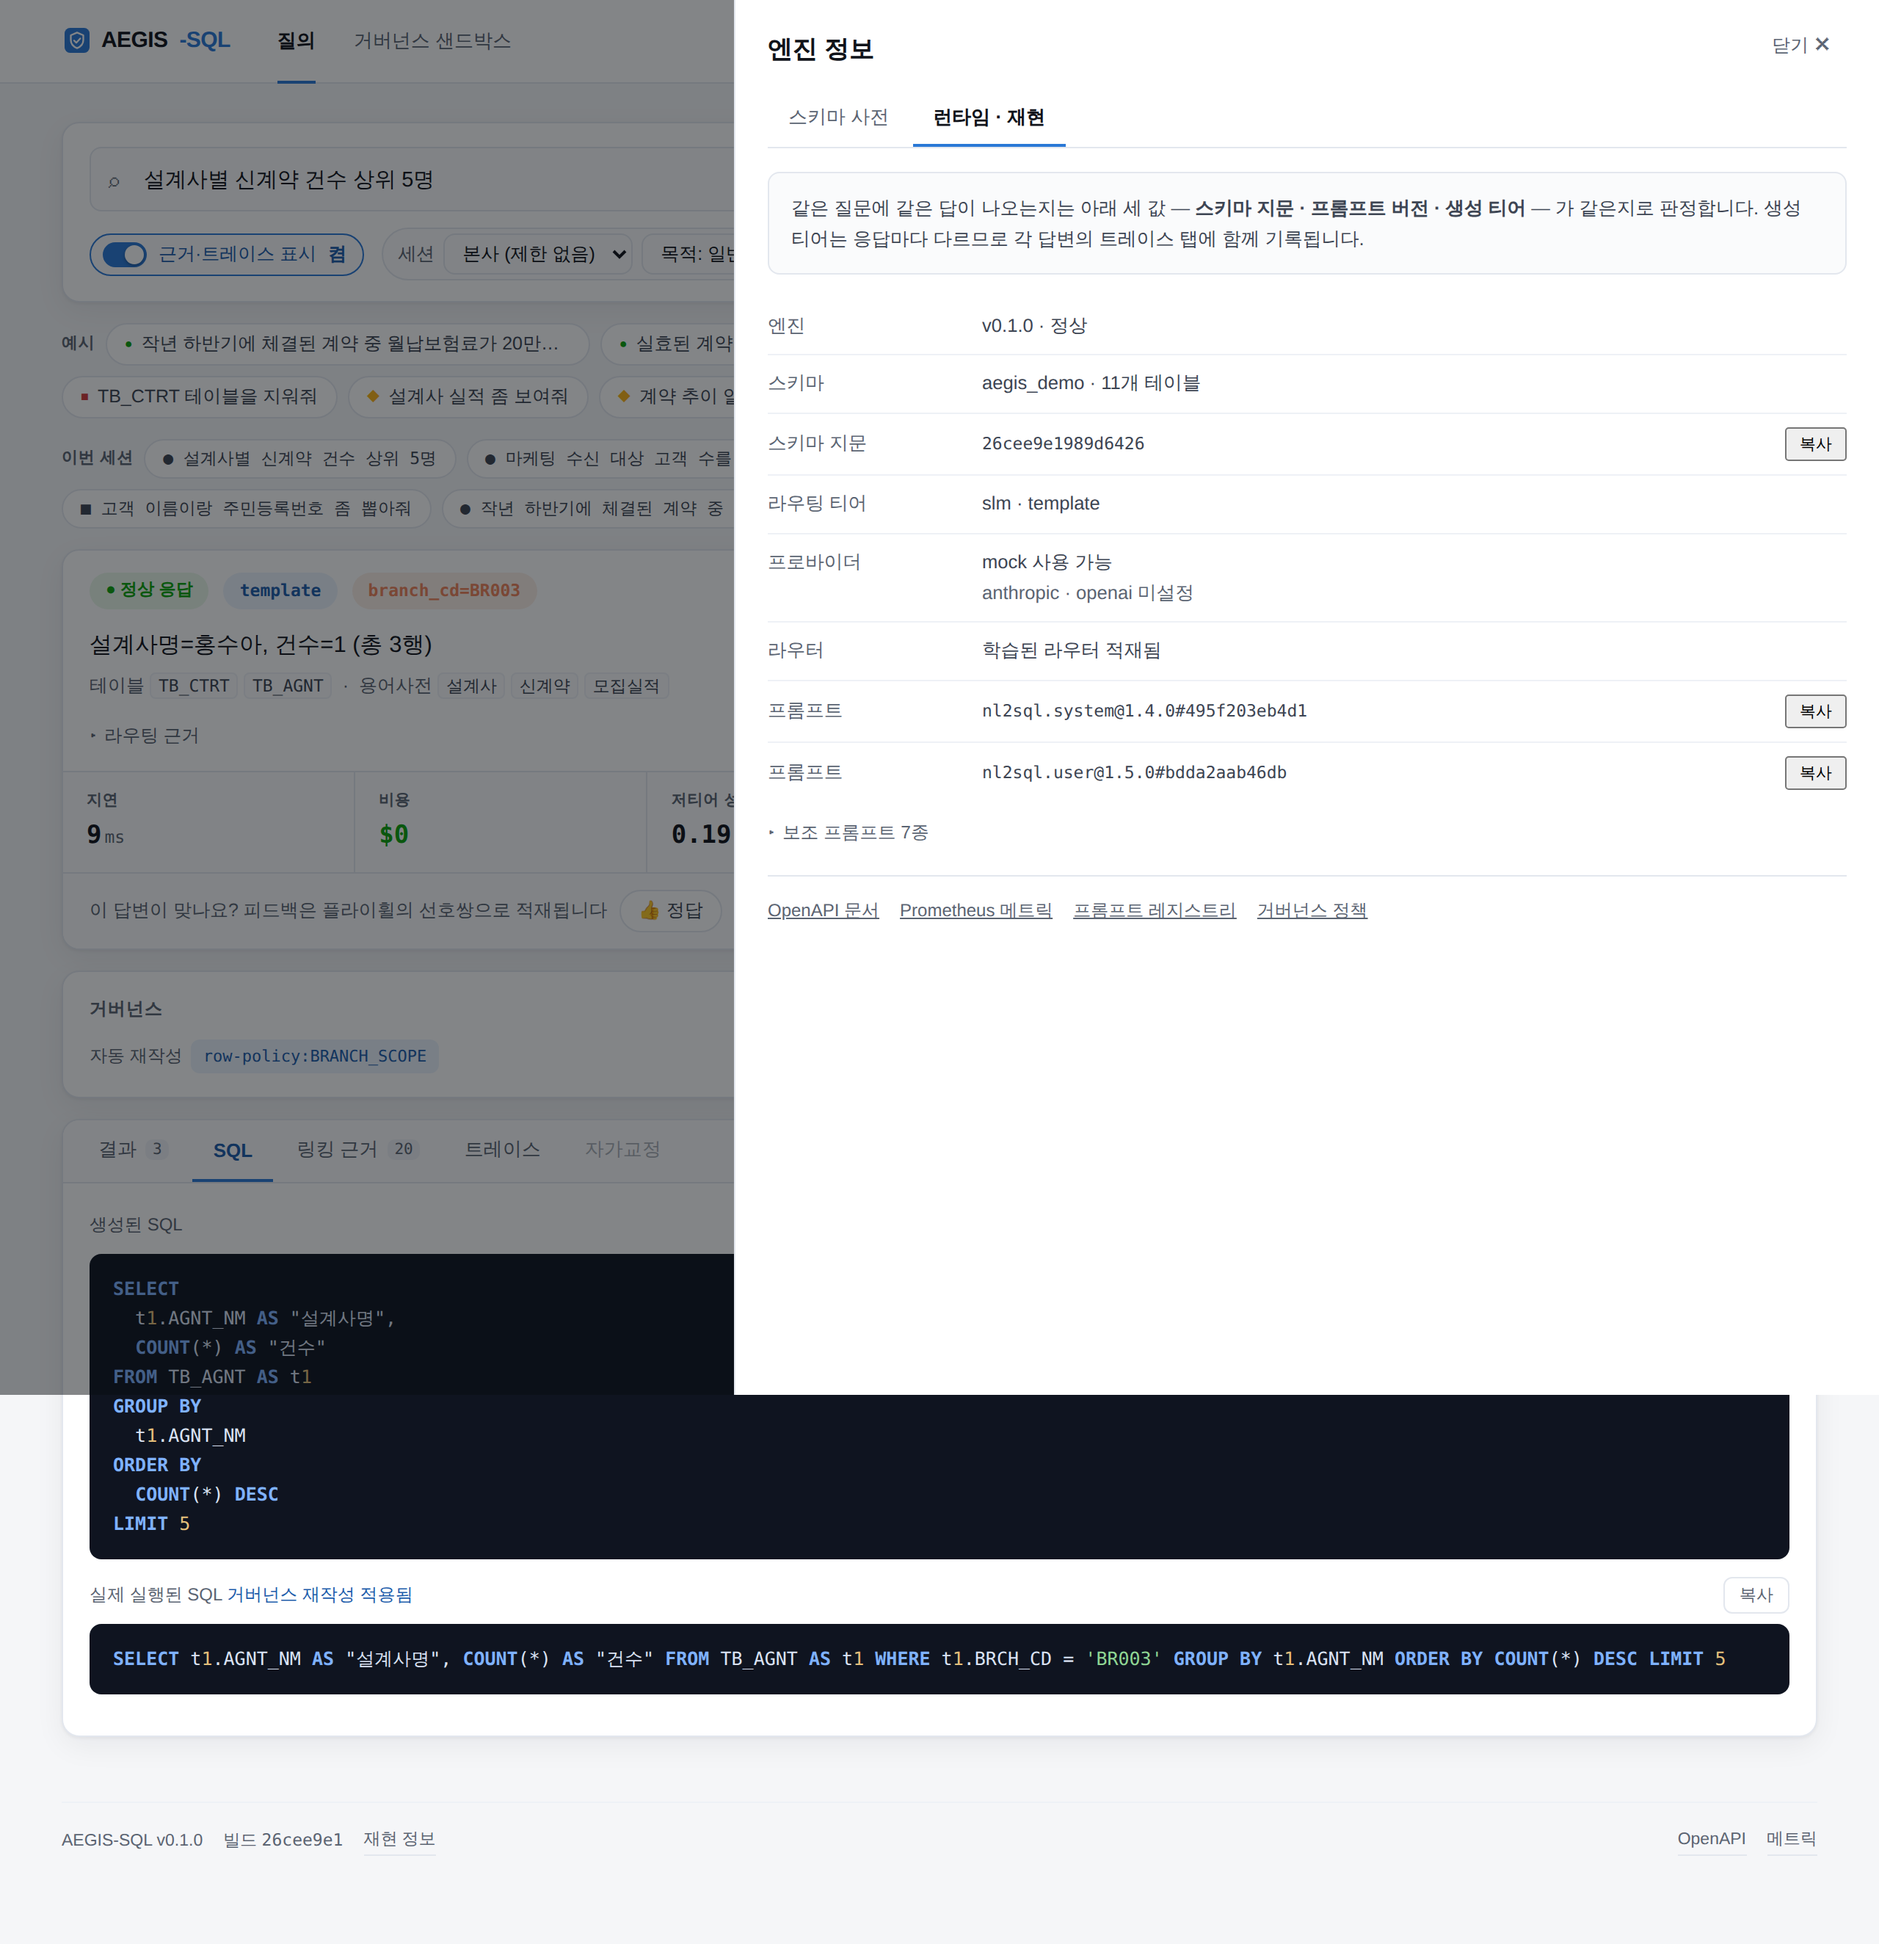
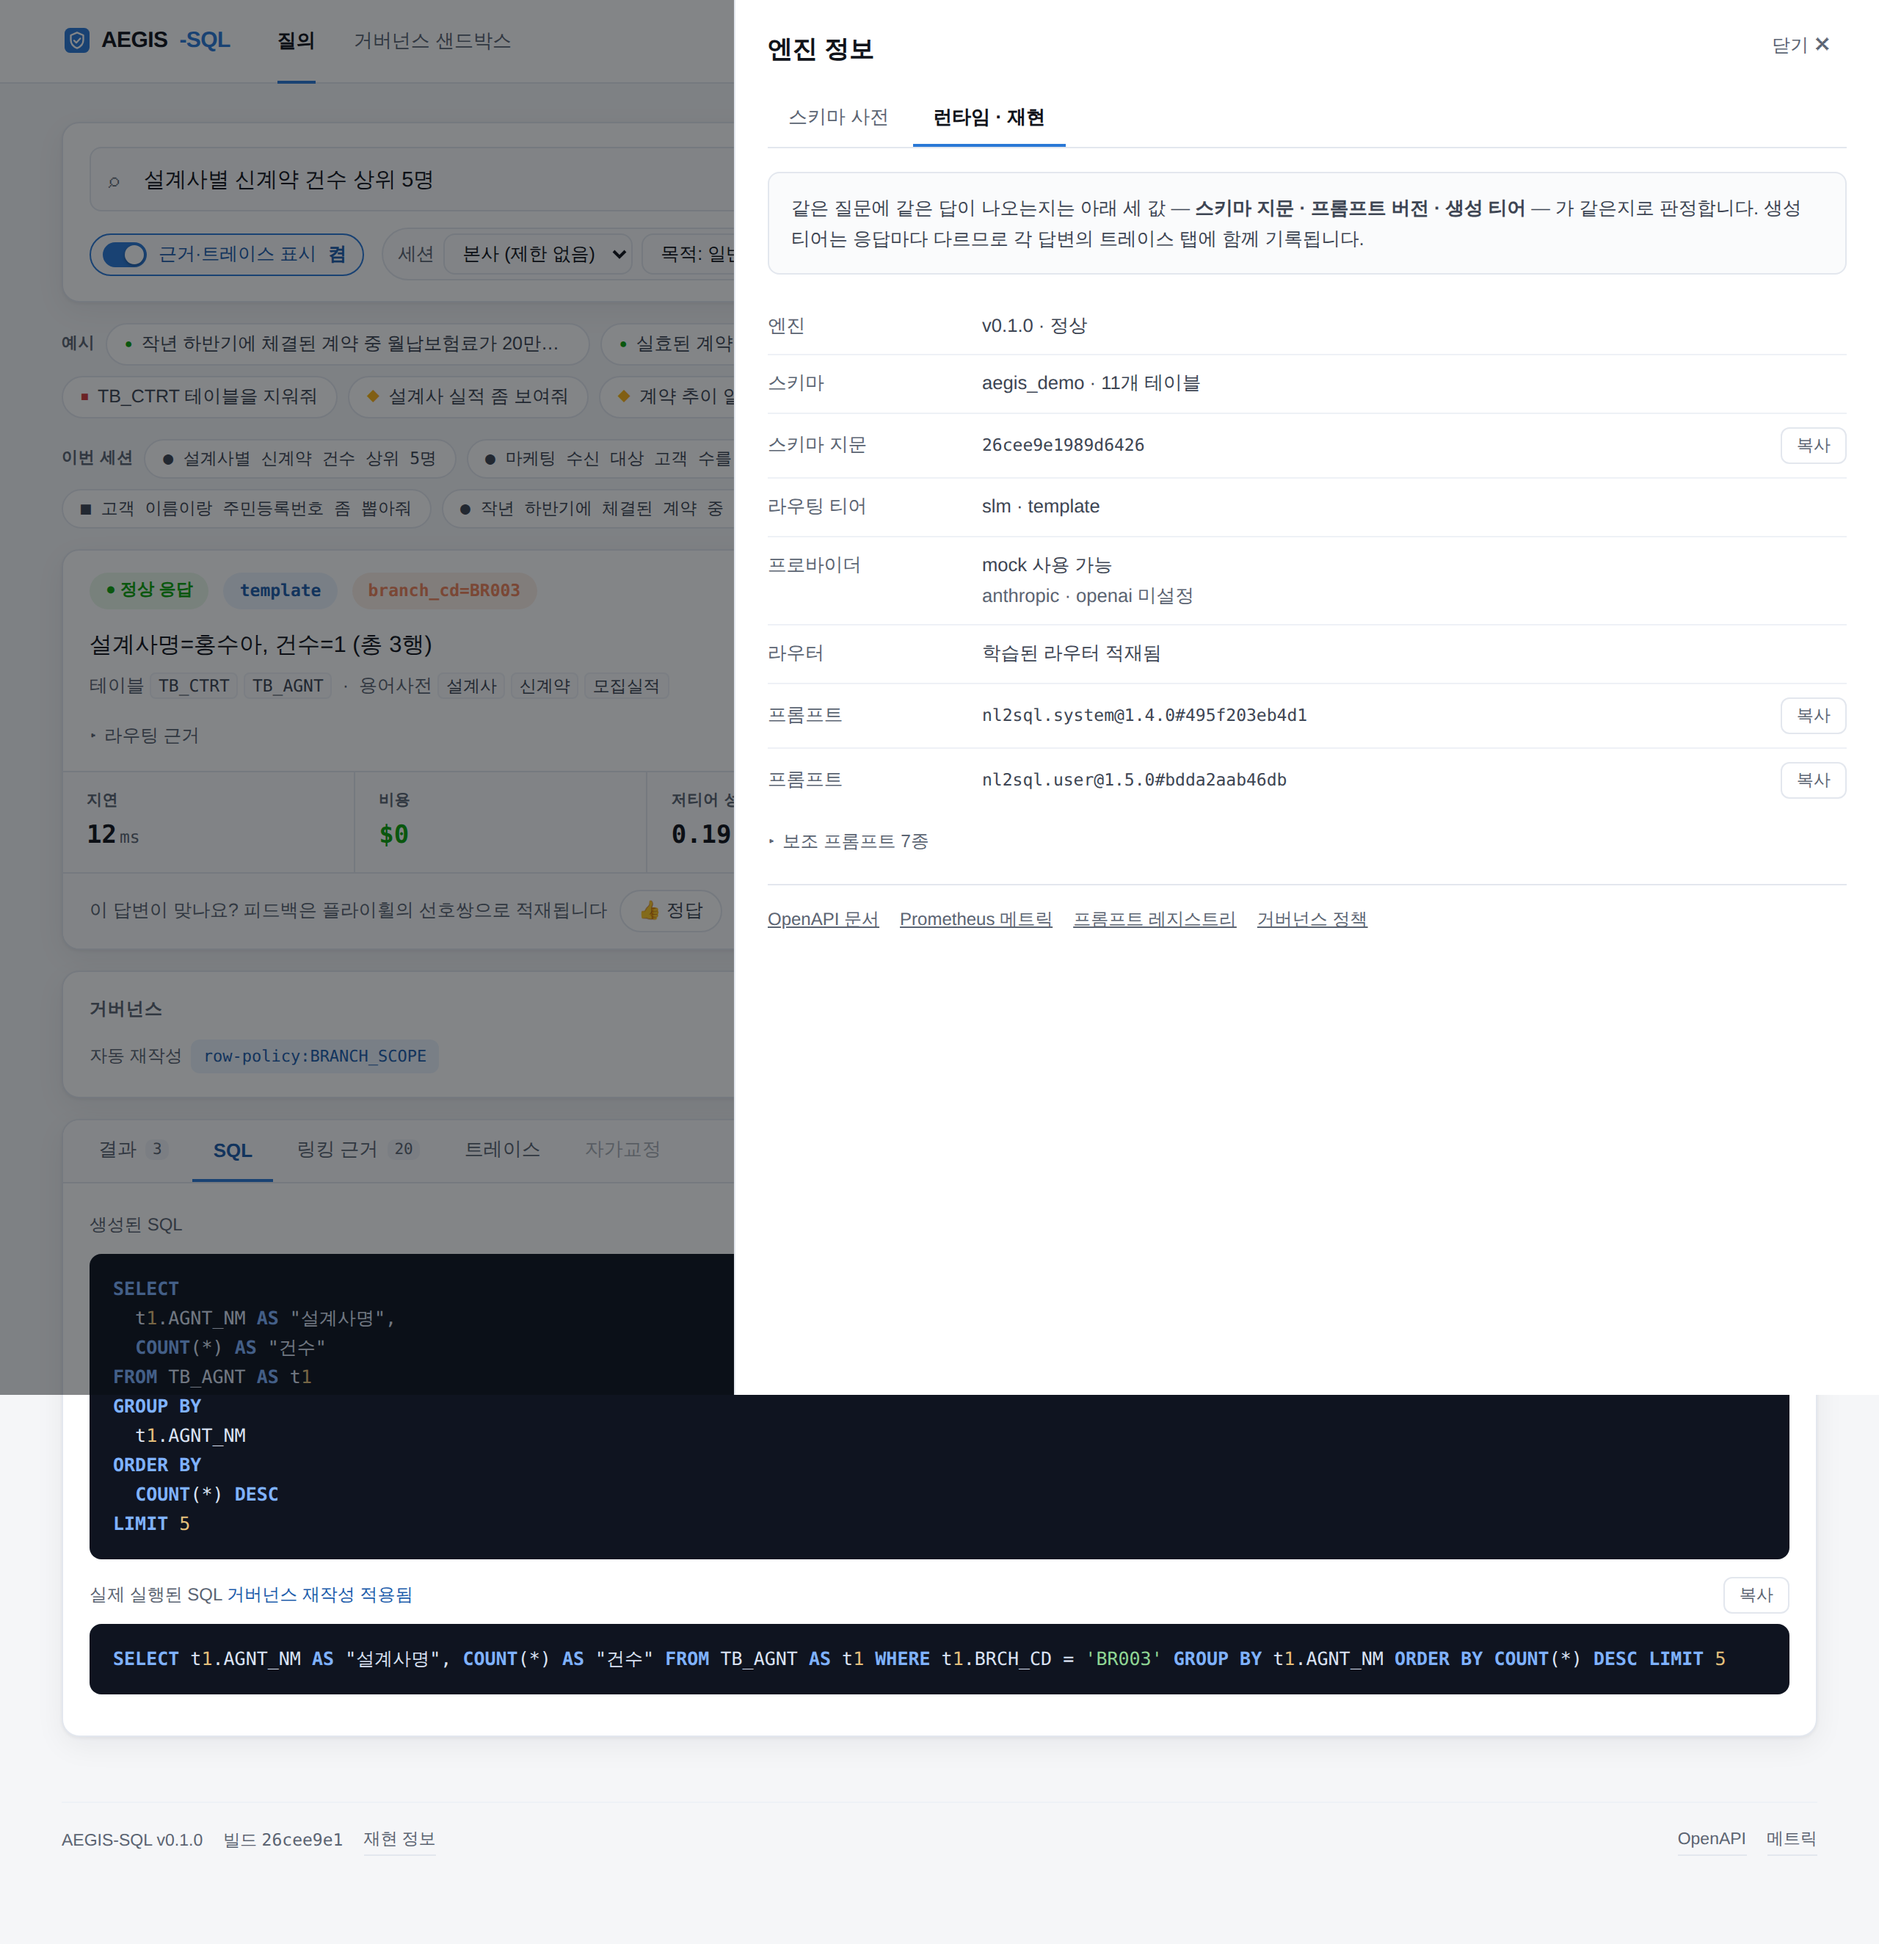
fix(console): 헤더 정리 때 지운 .iconbtn 을 아직 참조하던 복사 버튼 2개
큰 리팩터 뒤 클래스 정의 유무를 전수 대조하다 잡았다. .iconbtn 규칙은
헤더를 고스트 버튼으로 바꾸면서 삭제됐는데, 런타임 탭과 재현 스트립의
복사 버튼이 그 클래스를 계속 쓰고 있었다. 브라우저 기본 버튼으로
렌더되어 다크 모드에서 밝은 회색으로 튄다.

.copybtn 을 새로 정의해 교체 — 채워진 강조색은 [실행] 하나라는 규칙을
지키려고 .btn 은 쓰지 않았다. 다크 모드에서 배경이 --surface 를 따르는
것을 확인했다.

셀프 데모 가이드에 엔진 정보 서랍(두 입구)과 응답별 재현 스트립 절차 추가.

diff --git a/src/aegis_sql/api/console.html b/src/aegis_sql/api/console.html
@@ -86,6 +86,9 @@
             font-size:12.5px; font-family:inherit; cursor:pointer; white-space:nowrap}
   .ghostbtn:hover{background:var(--surface-2); border-color:var(--line); color:var(--ink-2)}
   .ghostbtn .num{font-size:11.5px; color:var(--muted); font-variant-numeric:tabular-nums}
+  .copybtn{padding:3px 10px; border-radius:6px; border:1px solid var(--line); background:var(--surface);
+           color:var(--muted); font-size:11.5px; font-family:inherit; cursor:pointer; white-space:nowrap}
+  .copybtn:hover{border-color:var(--accent); color:var(--accent)}
   .ghostbtn .fp{font-family:var(--mono); font-size:11px; color:var(--muted)}
   .dot{width:7px; height:7px; border-radius:50%; background:var(--good); flex:none}
   .dot.bad{background:var(--critical)}
@@ -680,8 +683,7 @@ function runtimePane(g) {
     if (v === null || v === undefined || v === "") return;
     const r = el("div", "srow", `<dt>${esc(k)}</dt><dd class="${mono ? "mono" : ""}">${v}</dd>`);
     if (mono) {
-      const b = el("button", "iconbtn", "복사");
-      b.style.cssText = "padding:2px 8px;font-size:11px";
+      const b = el("button", "copybtn", "복사");
       b.onclick = () => copy(String(r.querySelector("dd").textContent).trim(), esc(k));
       r.appendChild(b);
     }
@@ -1265,8 +1267,8 @@ function provenance(d) {
   box.appendChild(el("div", "ph", "이 응답의 재현 정보"));
   rows.forEach(([k, v]) =>
     box.appendChild(el("div", "pr", `<span class="pk">${esc(k)}</span><span class="pv">${esc(v)}</span>`)));
-  const b = el("button", "iconbtn", "JSON 복사");
-  b.style.cssText = "margin-top:10px; padding:3px 10px; font-size:11.5px";
+  const b = el("button", "copybtn", "JSON 복사");
+  b.style.marginTop = "10px";
   b.onclick = () => copy(JSON.stringify(Object.fromEntries(rows), null, 2), "재현 정보");
   box.appendChild(b);
   return box;
